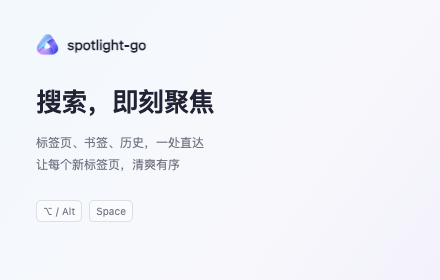
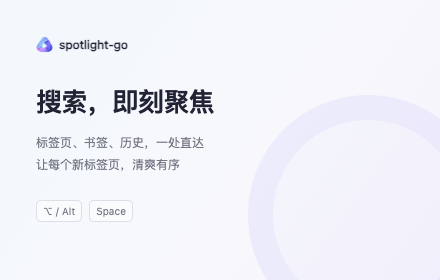
fix: 缩小宣传图标志并恢复淡紫圆环

Changed region(s): [[0.0886, 0.1143, 0.3545, 0.2]]

diff --git a/docs/store-assets/promo.html b/docs/store-assets/promo.html
@@ -9,7 +9,7 @@
 h1{font-size:48px;line-height:1.25;letter-spacing:-1px;margin:43px 0 20px;font-weight:600}p{font-size:17px;color:#737583;margin:0;line-height:1.8}
 .preview{position:absolute;left:700px;top:112px;width:760px;height:475px;border:5px solid #ffffffc0;border-radius:16px;overflow:hidden;box-shadow:0 10px 30px #5553890c;transform:rotate(-3deg)}.preview img{width:100%;height:100%;object-fit:cover}
 .key{margin-top:29px;display:inline-flex;align-items:center;gap:7px;font-size:13px;color:#777988}.key span{border:1px solid #dddfe8;background:#ffffff60;padding:6px 9px;border-radius:5px}
-body.small .copy{left:36px;top:33px}body.small .brand{font-size:14px;gap:8px}body.small .brand img{width:23px;height:23px}body.small h1{font-size:26px;letter-spacing:-.5px;margin:29px 0 14px}body.small p{font-size:12px;line-height:1.85}body.small .key{margin-top:24px;font-size:10px}body.small .key span{padding:4px 6px}body.small .preview{display:none}
+body.small .copy{left:36px;top:33px}body.small .brand{height:23px;font-size:12px;gap:6px}body.small .brand img{width:17px;height:17px}body.small h1{font-size:26px;letter-spacing:-.5px;margin:29px 0 14px}body.small p{font-size:12px;line-height:1.85}body.small .key{margin-top:24px;font-size:10px}body.small .key span{padding:4px 6px}body.small .preview{display:none}body.small .canvas:after{content:"";position:absolute;width:190px;height:190px;right:-48px;bottom:-55px;border:25px solid #b4adf51c;border-radius:50%;background:#c9c3fa12}
 </style>
 <body>
 <main class="canvas">
